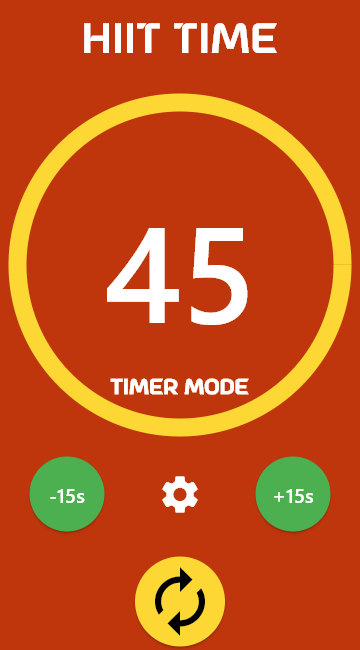
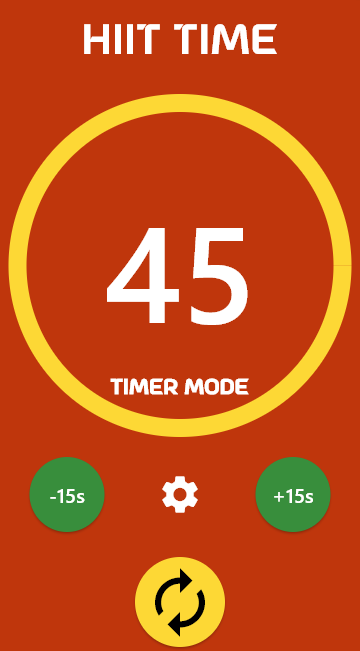
Color Updates | Pumpkin Dark Green | Rm limit on Secondary Color

diff --git a/lib/advanced_settings_menu.dart b/lib/advanced_settings_menu.dart
@@ -151,7 +151,6 @@ class _AdvancedSettingsMenuState extends State<AdvancedSettingsMenu> {
                         }),
                         style: ElevatedButton.styleFrom(
                           backgroundColor: secondaryAccentColor,
-                          // shape: Rectangle(),
                           padding: const EdgeInsets.all(4),
                         ),
                         child: Text(_displayThemesSettings
@@ -1271,9 +1270,7 @@ class ButtonAudioSettingsWidgetState extends State<ButtonAudioSettingsWidget> {
           ////////////////////////
           Row(
             children: [
-              // const SizedBox(width: 30),
               const Spacer(flex: 1),
-
               Text('Restart Button Audio',
                   style: TextStyle(
                       color: restartButtonAudioCurrentlyEnabled
@@ -1283,13 +1280,11 @@ class ButtonAudioSettingsWidgetState extends State<ButtonAudioSettingsWidget> {
                       height: 1.1),
                   textAlign: TextAlign.center),
 
-              const Spacer(flex: 1),
-
+              const Spacer(flex: 3),
               Switch(
                 value: restartButtonAudioCurrentlyEnabled,
                 onChanged: _onRestartButtonAudioChanged,
               ),
-              // const SizedBox(width: 10),
               const Spacer(flex: 1),
             ],
           ),
@@ -1304,7 +1299,6 @@ class ButtonAudioSettingsWidgetState extends State<ButtonAudioSettingsWidget> {
           Row(
             children: [
               const Spacer(flex: 1),
-
               Text('Save Button Audio',
                   style: TextStyle(
                       color: saveButtonAudioCurrentlyEnabled
@@ -1314,7 +1308,7 @@ class ButtonAudioSettingsWidgetState extends State<ButtonAudioSettingsWidget> {
                       height: 1.1),
                   textAlign: TextAlign.center),
 
-              const Spacer(flex: 1),
+              const Spacer(flex: 3),
               SizedBox(width: 20),
 
               Switch(
@@ -1345,8 +1339,7 @@ class ButtonAudioSettingsWidgetState extends State<ButtonAudioSettingsWidget> {
                       height: 1.1),
                   textAlign: TextAlign.center),
 
-              const Spacer(flex: 1),
-
+              const Spacer(flex: 3),
               Switch(
                 value: cancelButtonAudioCurrentlyEnabled,
                 onChanged: _onCancelButtonAudioChanged,
@@ -1374,8 +1367,7 @@ class ButtonAudioSettingsWidgetState extends State<ButtonAudioSettingsWidget> {
                       height: 1.1),
                   textAlign: TextAlign.center),
 
-              const Spacer(flex: 1),
-
+              const Spacer(flex: 3),
               Switch(
                 value: switchButtonAudioCurrentlyEnabled,
                 onChanged: _onSwitchButtonAudioChanged,

diff --git a/lib/Config/settings.dart b/lib/Config/settings.dart
@@ -89,25 +89,25 @@ bool alternateColorOverwrite = false;
 
 
 // Dark mode default colors
-var primaryColorDarkMode = Colors.white;
-var secondaryColorDarkMode = Colors.grey.shade900; // Almost black
-var primaryAccentColorDarkMode = Colors.blue.shade400;
-var secondaryAccentColorDarkMode = Colors.blueGrey;
-var runningClockColorDarkMode = Colors.lightGreenAccent.shade700;
+var primaryColorDarkMode;
+var secondaryColorDarkMode;
+var primaryAccentColorDarkMode;
+var secondaryAccentColorDarkMode;
+var runningClockColorDarkMode;
 
 // Light mode Default colors
-var primaryColorLightMode = Colors.black;
-var secondaryColorLightMode = Colors.white;
-var primaryAccentColorLightMode = Colors.blue.shade400;
-var secondaryAccentColorLightMode = Colors.blueGrey;
-var runningClockColorLightMode = Colors.lightGreenAccent.shade700;
+var primaryColorLightMode;
+var secondaryColorLightMode;
+var primaryAccentColorLightMode;
+var secondaryAccentColorLightMode;
+var runningClockColorLightMode;
 
 // Setup current app colors to Default Dark Mode
-var primaryColor = primaryColorDarkMode;
-var secondaryColor = secondaryColorDarkMode;
-var primaryAccentColor = primaryAccentColorDarkMode;
-var secondaryAccentColor = secondaryAccentColorDarkMode;
-var runningClockColor = runningClockColorDarkMode;
+var primaryColor;
+var secondaryColor;
+var primaryAccentColor;
+var secondaryAccentColor;
+var runningClockColor;
 
 
 /// Get Settings the User Previously Stored:
@@ -297,14 +297,14 @@ void setupAppTheme(String theme) {
       primaryColorDarkMode = Colors.white;
       secondaryColorDarkMode = Colors.deepOrange.shade900;
       primaryAccentColorDarkMode = Colors.yellow.shade600;
-      secondaryAccentColorDarkMode = Colors.green;
+      secondaryAccentColorDarkMode = Colors.green.shade700;
       runningClockColorDarkMode = secondaryAccentColorDarkMode;
 
       // Light mode
       primaryColorLightMode = Colors.black;
       secondaryColorLightMode = Colors.deepOrangeAccent.shade200;
       primaryAccentColorLightMode = Colors.yellowAccent;
-      secondaryAccentColorLightMode = Colors.green;
+      secondaryAccentColorLightMode = Colors.green.shade700;
       runningClockColorLightMode = secondaryAccentColorLightMode;
       break;
   }

diff --git a/lib/settings_menu.dart b/lib/settings_menu.dart
@@ -178,19 +178,10 @@ class _SettingsMenuState extends State<SettingsMenu> {
         setBooleanSetting('appInDarkMode', false);
         setupDarkOrLightMode(false);
 
-        // primaryColor = Colors.black;
-        // secondaryColor = Colors.white;
-        // primaryAccentColor = Colors.blue.shade400;
-        // secondaryAccentColor = Colors.blueGrey;
       } else {
         // Call settings.dart Setter:
         setBooleanSetting('appInDarkMode', true);
         setupDarkOrLightMode(true);
-
-        // primaryColor = Colors.white;
-        // secondaryColor = Colors.grey.shade900;
-        // primaryAccentColor = Colors.blue.shade400;
-        // secondaryAccentColor = Colors.blueGrey;
       }
     });
   }
